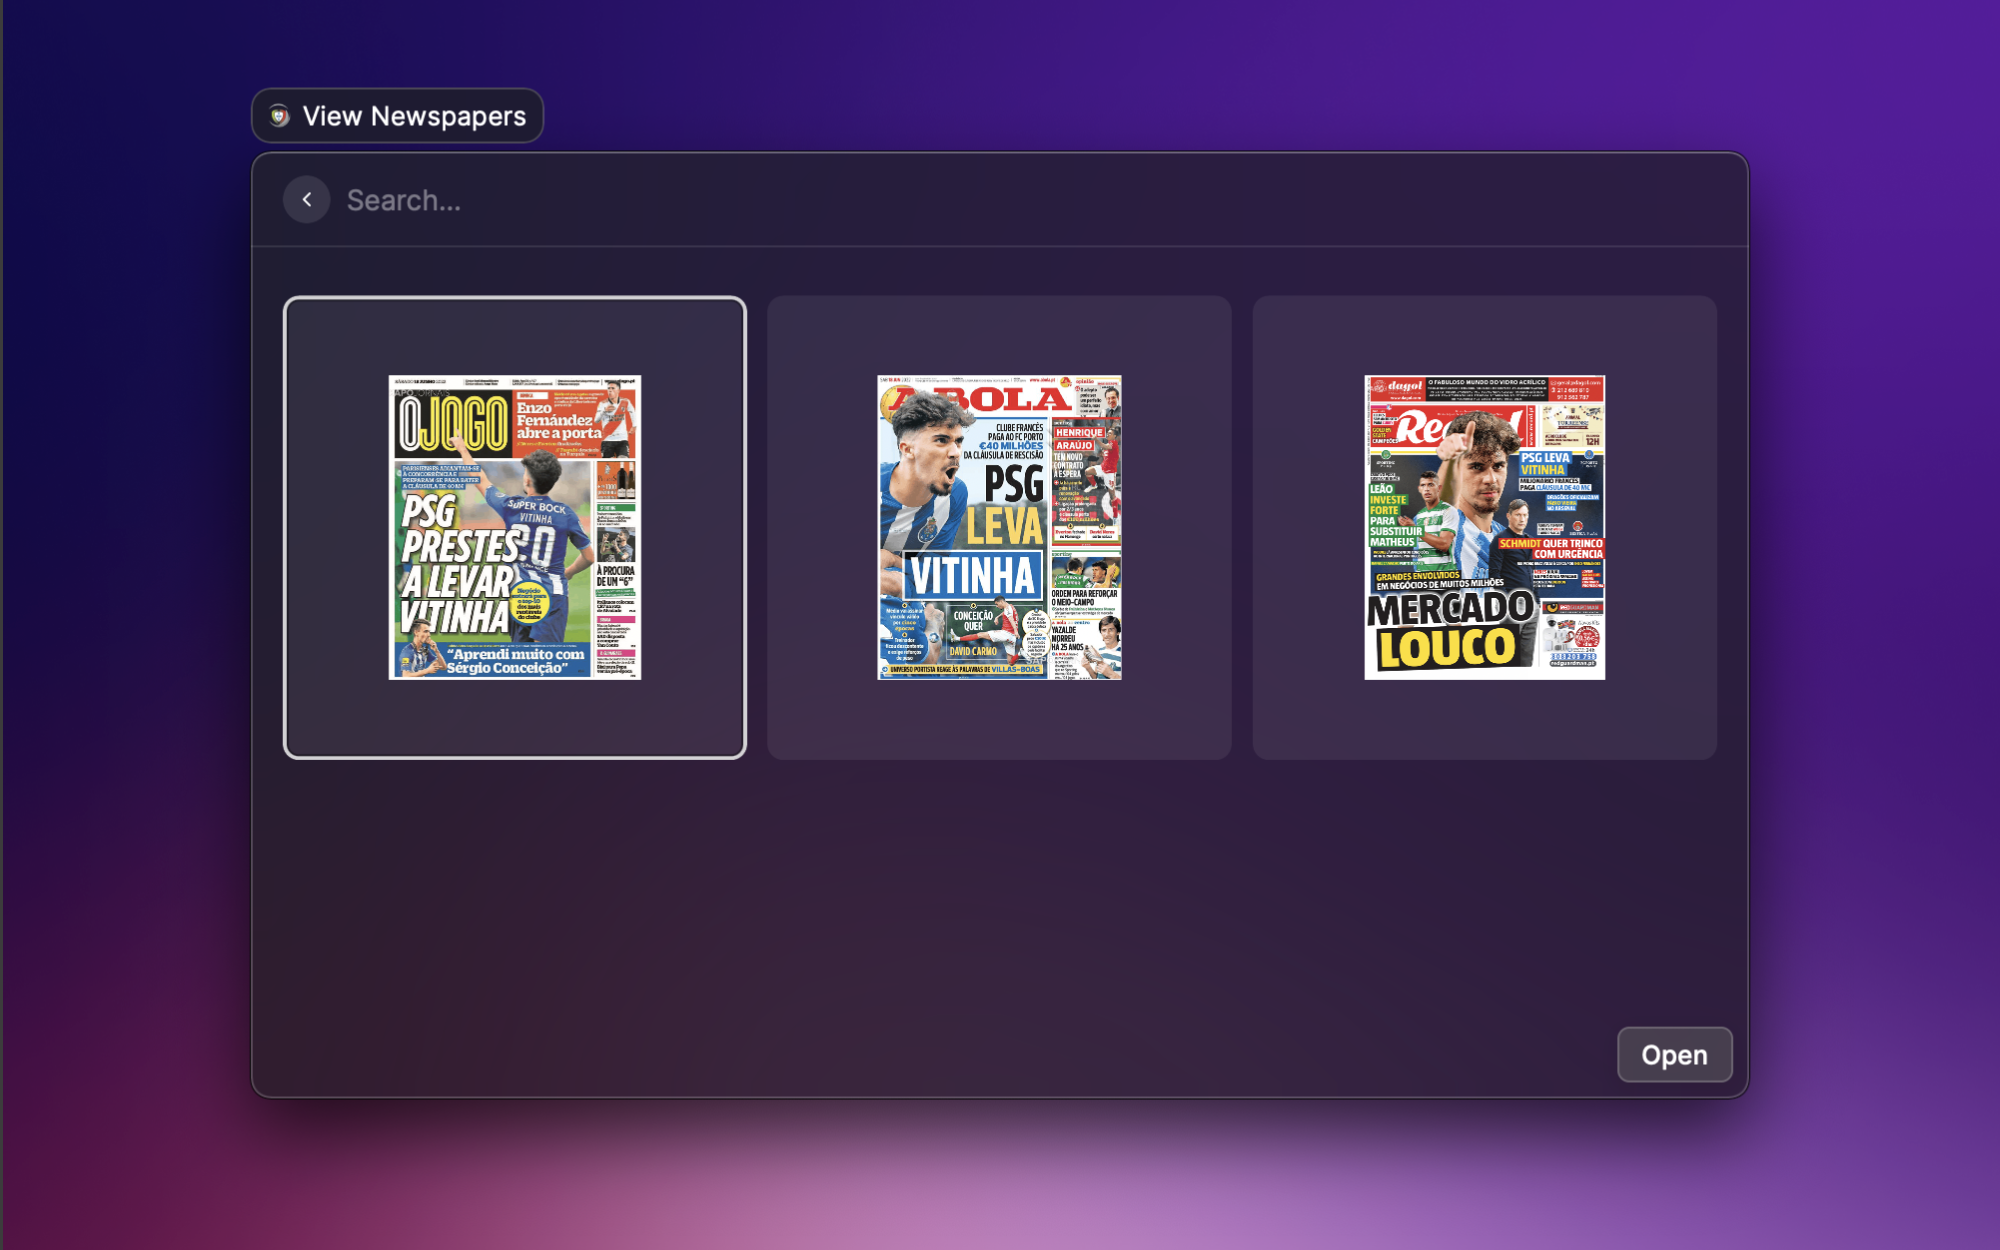
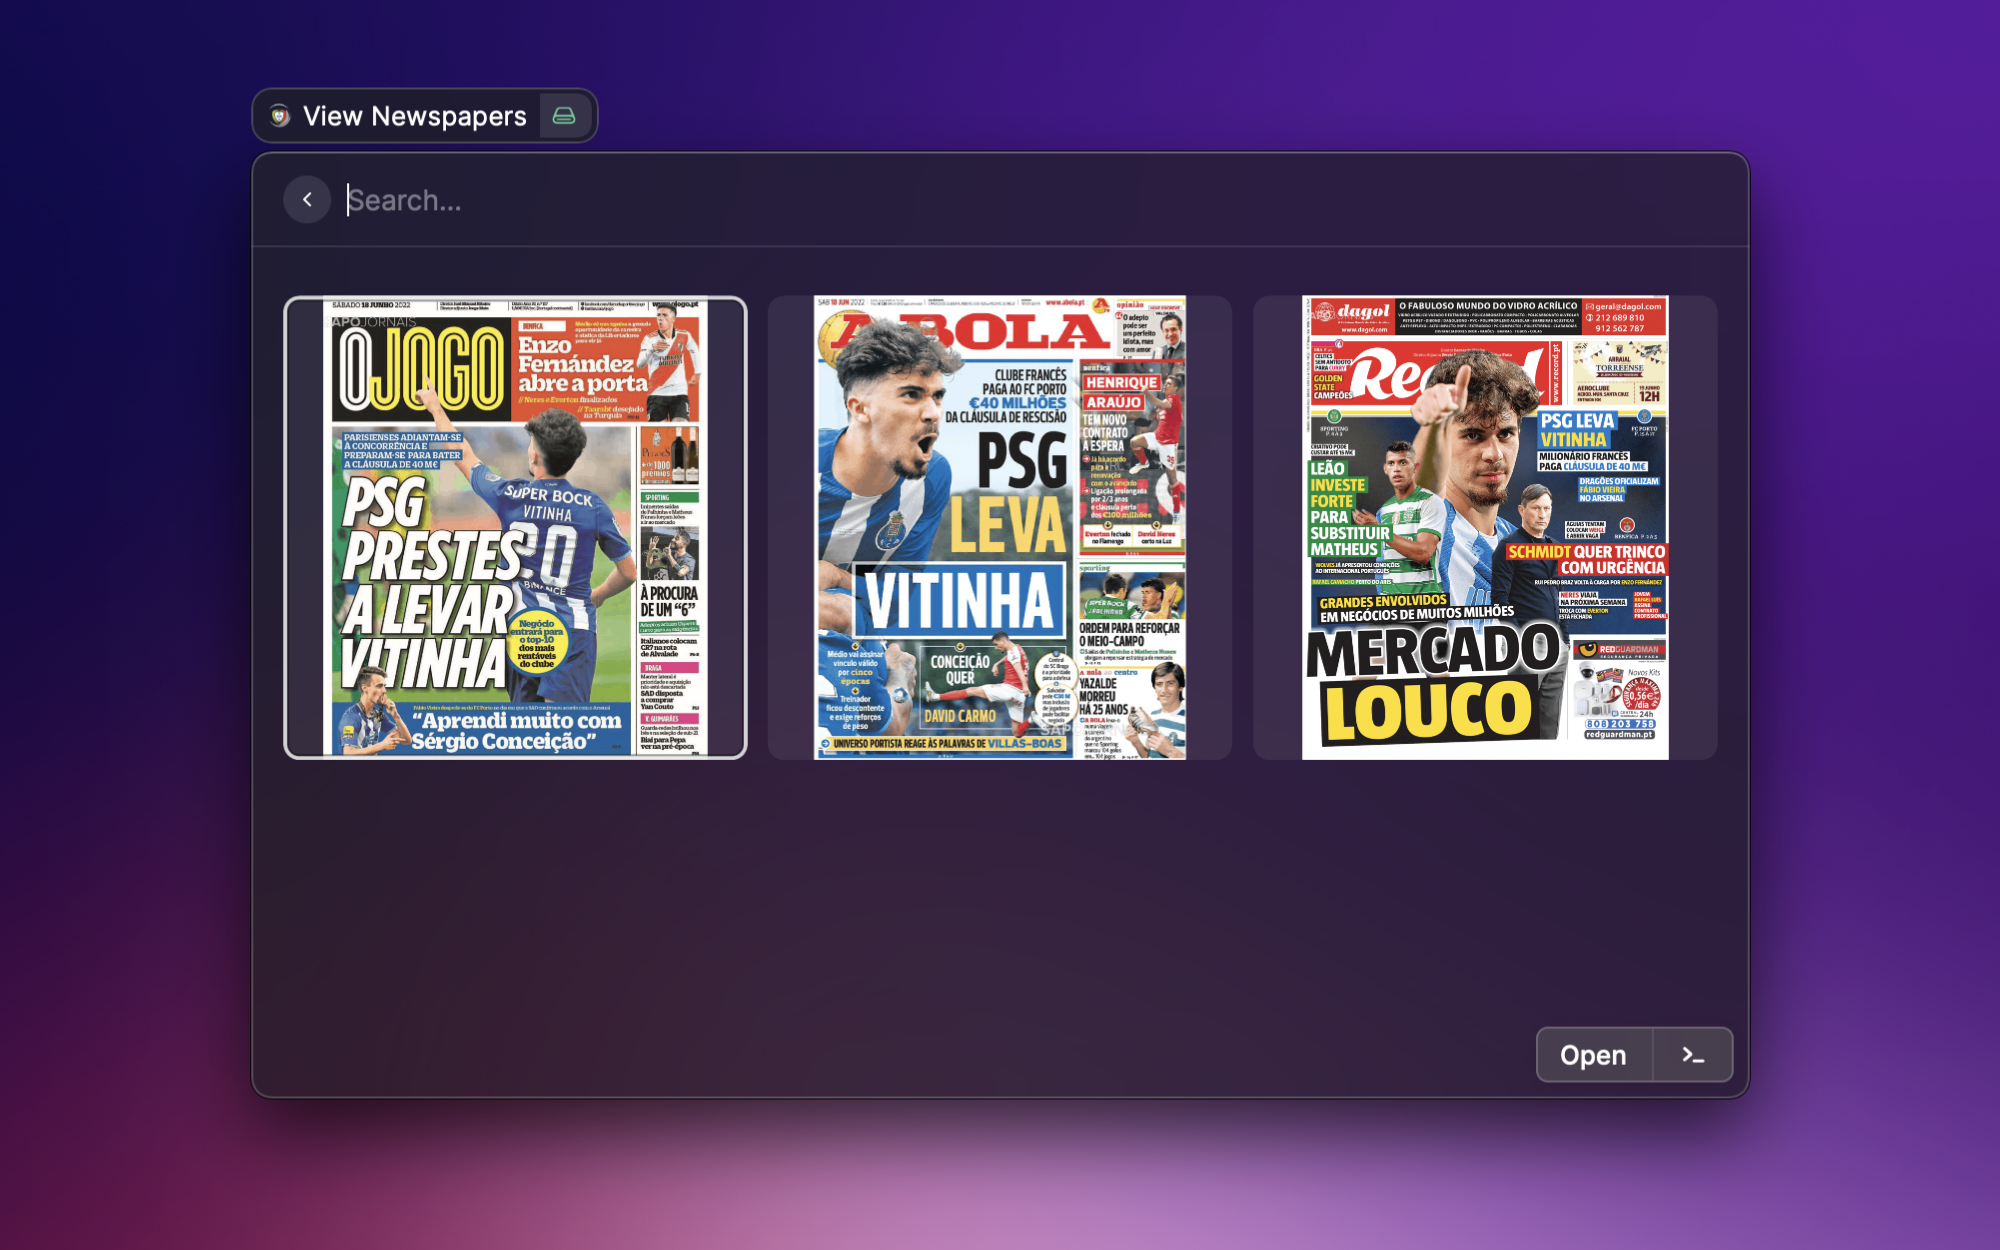
Portuguese Primeira Liga improvement (#2029)
* Removed inset from Grid and updated screenshot

* Updated changelog

diff --git a/extensions/portuguese-primeira-liga/src/newspapers.tsx b/extensions/portuguese-primeira-liga/src/newspapers.tsx
@@ -5,13 +5,7 @@ export default function GetNewspapers() {
   const newspapers = useNewspapers();
 
   return (
-    <Grid
-      throttle
-      isLoading={!newspapers}
-      itemSize={Grid.ItemSize.Large}
-      inset={Grid.Inset.Medium}
-      enableFiltering={false}
-    >
+    <Grid throttle isLoading={!newspapers} itemSize={Grid.ItemSize.Large} enableFiltering={false}>
       {newspapers?.map((paper) => {
         return (
           <Grid.Item

diff --git a/extensions/portuguese-primeira-liga/src/types/index.ts b/extensions/portuguese-primeira-liga/src/types/index.ts
@@ -1,5 +1,3 @@
-import { Url } from "url";
-
 export interface Table {
   position: number;
   team: Team;

diff --git a/extensions/portuguese-primeira-liga/CHANGELOG.md b/extensions/portuguese-primeira-liga/CHANGELOG.md
@@ -2,7 +2,8 @@
 
 ## [New Additions] - 2022-06-18
 
-Added new screenshots
+- Removed inset from Grid
+- Added new screenshots
 
 ## [New Additions] - 2022-06-17
 
